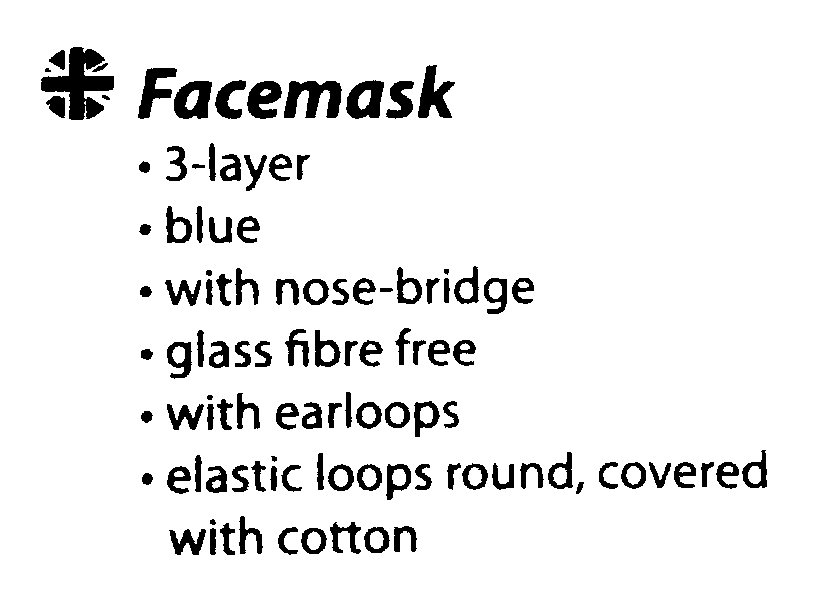
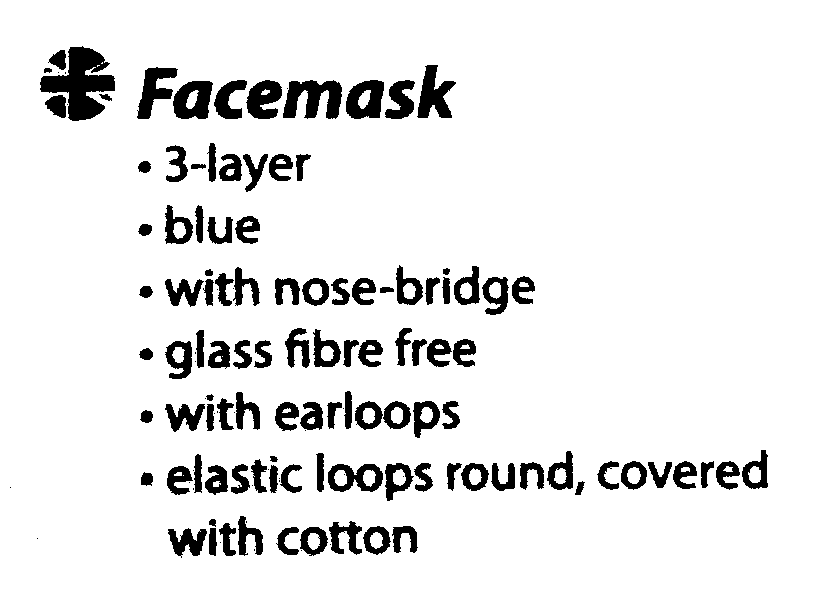
Improved algorithm

diff --git a/ocr/src/main/java/com/mauriciotogneri/ocr/Image.java b/ocr/src/main/java/com/mauriciotogneri/ocr/Image.java
@@ -1,8 +1,10 @@
 package com.mauriciotogneri.ocr;
 
 import java.util.ArrayList;
+import java.util.HashMap;
 import java.util.HashSet;
 import java.util.List;
+import java.util.Map;
 import java.util.Set;
 import java.util.stream.Collectors;
 
@@ -32,19 +34,40 @@ public class Image
     public Image binarize()
     {
         int sum = 0;
+        Map<Integer, Integer> map = new HashMap<>();
 
         for (int x = 0; x < width; x++)
         {
             for (int y = 0; y < height; y++)
             {
                 Pixel pixel = pixel(x, y);
-                sum += pixel.average();
+                int value = pixel.average();
+                sum += value;
+
+                if (map.containsKey(value))
+                {
+                    map.put(value, map.get(value) + 1);
+                }
+                else
+                {
+                    map.put(value, 1);
+                }
             }
+        }
+
+        StringBuilder builder = new StringBuilder();
+
+        for (Integer a : map.keySet())
+        {
+            builder.append(a);
+            builder.append(";");
+            builder.append(map.get(a));
+            builder.append("\n");
         }
 
         int average = sum / (width * height);
 
-        return transform(pixel -> pixel.binarize(150));
+        return transform(pixel -> pixel.binarize(165));
     }
 
     public Image transform(Pixel.Transform transform)
@@ -67,6 +90,7 @@ public class Image
     {
         List<Symbol> symbols = new ArrayList<>();
         Set<Position> visited = new HashSet<>();
+        int sumSizes = 0;
 
         for (int x = 0; x < width; x++)
         {
@@ -81,17 +105,11 @@ public class Image
                     if (!positions.isEmpty())
                     {
                         Symbol symbol = Symbol.fromPositions(positions);
+                        sumSizes += symbol.size();
                         symbols.add(symbol);
                     }
                 }
             }
-        }
-
-        int sumSizes = 0;
-
-        for (Symbol symbol : symbols)
-        {
-            sumSizes += symbol.size();
         }
 
         int averageSize = sumSizes / symbols.size();
@@ -107,7 +125,12 @@ public class Image
     {
         List<Position> positions = new ArrayList<>();
 
-        if (pixel(position.x, position.y).isBlack() && !visited.contains(position))
+        if ((position.x >= 0) &&
+                (position.x < width) &&
+                (position.y >= 0) &&
+                (position.y < height) &&
+                pixel(position.x, position.y).isBlack() &&
+                !visited.contains(position))
         {
             visited.add(position);
             positions.add(position);

diff --git a/ocr/src/main/java/com/mauriciotogneri/ocr/Main.java b/ocr/src/main/java/com/mauriciotogneri/ocr/Main.java
@@ -1,19 +1,18 @@
 package com.mauriciotogneri.ocr;
 
 import java.io.File;
-import java.util.List;
 
 public class Main
 {
     public static void main(String[] args) throws Exception
     {
         Image image = ImageFile.load(new File("input/image.jpg"));
-        List<Symbol> symbols = image.binarize().symbols();
+        /*List<Symbol> symbols = image.binarize().symbols();
 
         for (Symbol symbol : symbols)
         {
             ImageFile.save(symbol.image(), "png", new File("output/" + symbol.x + "-" + symbol.y + ".png"));
-        }
+        }*/
         ImageFile.save(image.binarize(), "png", new File("output/image.png"));
     }
 }
